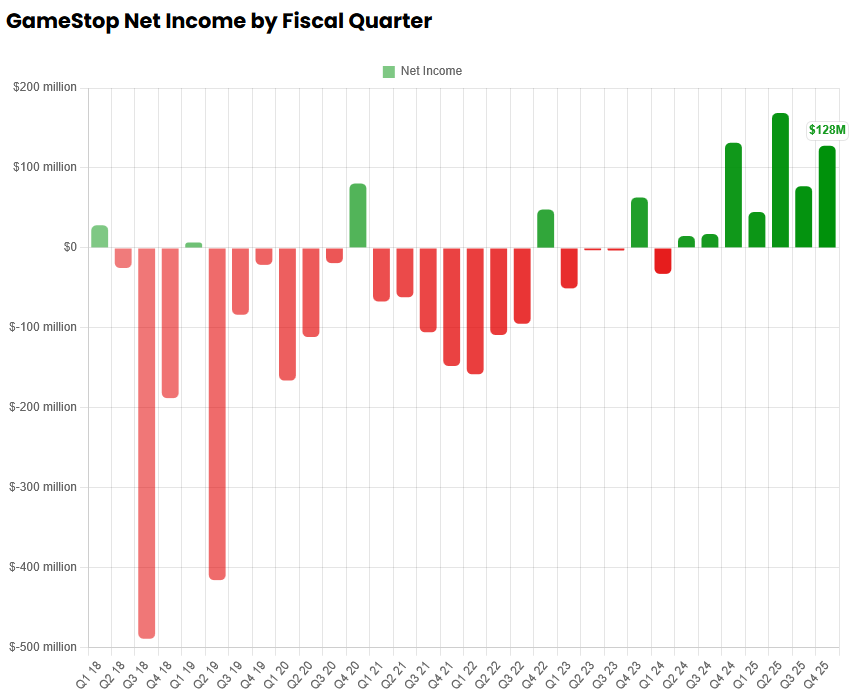
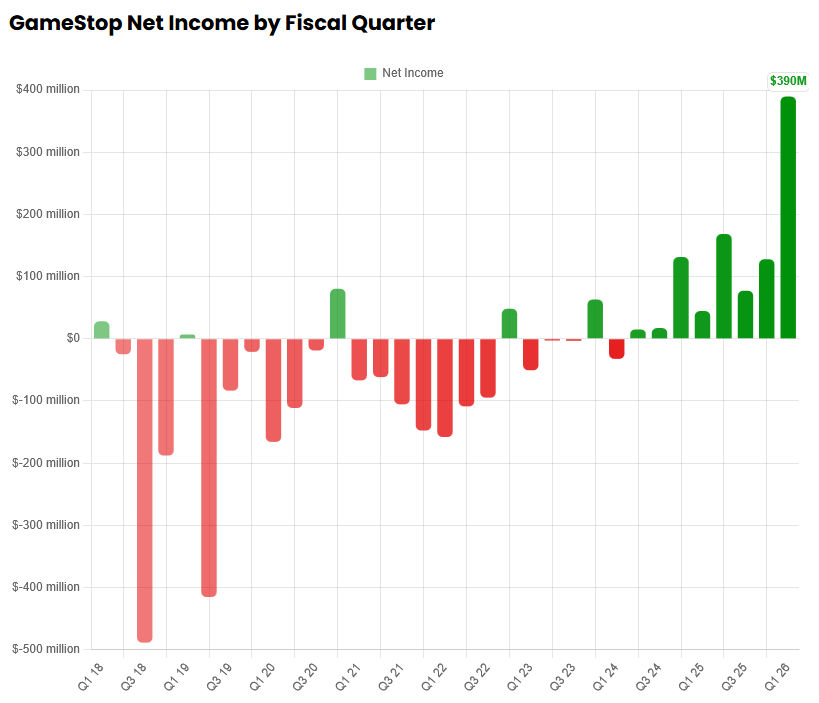
10-Q update

diff --git a/src/app/main-pages/financials/earnings-results/10q_filings.ts b/src/app/main-pages/financials/earnings-results/10q_filings.ts
@@ -7,9 +7,9 @@ export const filings_10q_raw: EarningsResultInterface[] = [
     filingDateYYYYMMDD: "2026-06-02",
     reportDateYYYYMMDD: "2026-05-02",
     revenue: 835300000,
-    revenueHardware: 0,
-    revenueSoftware: 0,
-    revenueCollectibles: 0,
+    revenueHardware: 333700000,
+    revenueSoftware: 152700000,
+    revenueCollectibles: 348900000,
     revenueOther: 0,
     costOfSales: 495000000,
     grossProfit: 340300000,
@@ -25,9 +25,9 @@ export const filings_10q_raw: EarningsResultInterface[] = [
     totalDebt: 4166100000,
     totalLiabilities: 5132200000,
     stockholdersEquity: 5842100000,
-    drs: 0,
+    drs: 65000000,
     storeCount: 2206,
-    url: ""
+    url: "https://www.sec.gov/ix?doc=/Archives/edgar/data/0001326380/000132638026000025/gme-20260502.htm"
   },
   {
     fiscalYear: 2025,

diff --git a/src/app/info-pages/_corporate/trading-cards/trading-cards.component.ts b/src/app/info-pages/_corporate/trading-cards/trading-cards.component.ts
@@ -29,7 +29,7 @@ export class TradingCardsComponent {
     return {
       period: 'QUARTER',
       startYear: 2020,
-      endYear: 2025,
+      endYear: 2026,
       selectedProperty: EarningsChartPropertySelection.REVENUE_TYPE_PERCENTAGE_COLLECTIBLES,
       menuLabel: 'Collectibles Revenue: Increasing',
       showCustomLegend: false,
